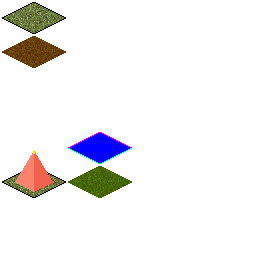
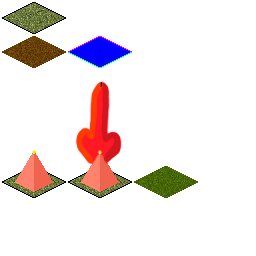
Added map regions

Changed region(s): [[0.25, 0.3125, 0.7812, 0.7812], [0.25, 0.125, 0.5312, 0.2812]]

diff --git a/core/src/game/infrpg/logic/map/Map.java b/core/src/game/infrpg/logic/map/Map.java
@@ -9,7 +9,10 @@ import com.badlogic.gdx.utils.Disposable;
 import game.infrpg.logic.RenderCallCounter;
 import static game.infrpg.MyGdxGame.logger;
 import game.infrpg.graphics.Camera;
-import game.infrpg.logic.Constants;
+import static game.infrpg.logic.Constants.CHUNK_SIZE;
+import static game.infrpg.logic.Constants.TILE_SIZE;
+import static game.infrpg.logic.Constants.REGION_SIZE;
+import static game.infrpg.logic.Constants.CHUNK_RENDER_DISTANCE;
 import java.io.BufferedInputStream;
 import java.io.BufferedOutputStream;
 import java.io.File;
@@ -22,6 +25,7 @@ import java.io.ObjectOutputStream;
 import java.io.OutputStream;
 import java.io.Serializable;
 import java.util.ArrayList;
+import java.util.Collection;
 import java.util.HashMap;
 import java.util.zip.GZIPInputStream;
 import java.util.zip.GZIPOutputStream;
@@ -40,19 +44,19 @@ public class Map implements Disposable, RenderCallCounter, Serializable {
 	private transient SpriteBatch batch;
 	private transient Vector2 isoCamPosBuffer;
 	
-	private final HashMap<String, MapChunk> globalChunks;
+	private final HashMap<Integer, Region> regions;
 	public final long seed;
 	
 	
 	public Map(long seed) {
 		this.seed = seed;
-		this.globalChunks = new HashMap<>(1000);
+		this.regions = new HashMap<>(32);
 		
 		setupTransientFields();
 		
 		// create test chunks
-		for (int i = -2; i < 3; i++) {
-			for (int j = -2; j < 3; j++) {
+		for (int i = -200; i <= 200; i++) {
+			for (int j = -200; j <= 200; j++) {
 				MapChunk chunk = new MapChunk(i, j);
 				setChunk(chunk);
 			}
@@ -80,17 +84,58 @@ public class Map implements Disposable, RenderCallCounter, Serializable {
 	
 	
 	public MapChunk getChunk(int x, int y) {
-		return globalChunks.get(key(x, y));
+		short regionX = (short)Math.floorDiv(x, REGION_SIZE);
+		short regionY = (short)Math.floorDiv(y, REGION_SIZE);
+		
+		Region region = regions.get(regionsMapKey(regionX, regionY));
+		if (region == null) return null;
+		
+		int localChunkX = x - regionX * REGION_SIZE;
+		int localChunkY = y - regionY * REGION_SIZE;
+		return region.getLocalChunk(localChunkX, localChunkY);
 	}
 	
 	
 	public void setChunk(MapChunk chunk) {
-		globalChunks.put(key(chunk.position.getX(), chunk.position.getY()), chunk);
+		// Find the region where this chunk should reside
+		short regionX = (short)Math.floorDiv(chunk.position.getX(), REGION_SIZE); // TODO: test with negative
+		short regionY = (short)Math.floorDiv(chunk.position.getY(), REGION_SIZE);
+		
+		// Get/create the region
+		Region region = regions.get(regionsMapKey(regionX, regionY));
+		if (region == null) region = createRegion(regionX, regionY);
+		
+		// Calc local position of the chunk within the region
+		int localChunkX = chunk.position.getX() - regionX * REGION_SIZE;
+		int localChunkY = chunk.position.getY() - regionY * REGION_SIZE;
+		region.setLocalChunk(chunk, localChunkX, localChunkY);
 	}
 	
 	
-	private String key(int x, int y) {
-		return String.valueOf(x) + ":" + String.valueOf(y);
+	/**
+	 * Calculate the key used for region mapping.
+	 * @param x
+	 * @param y
+	 * @return 
+	 */
+	private int regionsMapKey(short x, short y) {
+		int key = Short.toUnsignedInt(y) << 16;
+		key |= Short.toUnsignedInt(x);
+		return key;
+	}
+	
+	
+	/**
+	 * Creates a region at position (x, y), and returns a reference
+	 * to the newly created region.
+	 * @param x
+	 * @param y
+	 * @return 
+	 */
+	private Region createRegion(short x, short y) {
+		Region region = new Region(x, y);
+		regions.put(regionsMapKey(x, y), region);
+		return region;
 	}
 	
 	
@@ -104,25 +149,18 @@ public class Map implements Disposable, RenderCallCounter, Serializable {
 		
 		cam.getIsometricPosition(isoCamPosBuffer);
 		Point centerChunk = new Point(
-				Math.floorDiv((int)isoCamPosBuffer.x, Constants.CHUNK_SIZE * Constants.TILE_SIZE),
-				Math.floorDiv((int)isoCamPosBuffer.y, Constants.CHUNK_SIZE * Constants.TILE_SIZE));
+				Math.floorDiv((int)isoCamPosBuffer.x, CHUNK_SIZE * TILE_SIZE),
+				Math.floorDiv((int)isoCamPosBuffer.y, CHUNK_SIZE * TILE_SIZE));
 		
 		batch.setProjectionMatrix(cam.combined);
 		batch.begin();
 		
-		int RENDER_DIST = 1;
-		for (int i = centerChunk.getX() - RENDER_DIST; i <= centerChunk.getX() + RENDER_DIST; i++) {
-			for (int j = centerChunk.getY() - RENDER_DIST; j <= centerChunk.getY() + RENDER_DIST; j++) {
+		for (int i = centerChunk.getX() - CHUNK_RENDER_DISTANCE; i <= centerChunk.getX() + CHUNK_RENDER_DISTANCE; i++) {
+			for (int j = centerChunk.getY() - CHUNK_RENDER_DISTANCE; j <= centerChunk.getY() + CHUNK_RENDER_DISTANCE; j++) {
 				MapChunk chunk = getChunk(i, j);
 				if (chunk != null) chunk.render(mapTextureRegions, batch);
 			}
 		}
-		
-		// Render all chunks
-//		int numChunks = renderChunks.size();
-//		for (int i = 0; i < numChunks; i++) {
-//			renderChunks.get(i).render(mapTextureRegions, batch);
-//		}
 		
 		batch.end();
 	}
@@ -180,4 +218,6 @@ public class Map implements Disposable, RenderCallCounter, Serializable {
 		bfis.close();
 		return map;
 	}
+
+	
 }

diff --git a/core/src/game/infrpg/logic/map/MapChunk.java b/core/src/game/infrpg/logic/map/MapChunk.java
@@ -11,6 +11,7 @@ import java.util.List;
 import org.lwjgl.util.Point;
 import static game.infrpg.logic.Constants.CHUNK_SIZE;
 import static game.infrpg.logic.Constants.TILE_SIZE;
+import java.util.Random;
 
 /**
  *
@@ -18,7 +19,7 @@ import static game.infrpg.logic.Constants.TILE_SIZE;
  */
 public class MapChunk implements Serializable {
 	
-	/** Chunk position within the region. */
+	/** Global chunk position. */
 	public final Point position;
 	
 	private final Vector2 screenPos;
@@ -42,9 +43,10 @@ public class MapChunk implements Serializable {
 		this.chunkTileData = new byte[CHUNK_SIZE][CHUNK_SIZE];
 		this.coordTmp = new Vector2();
 		
+		Random rnd = new Random();
 		for (int i = 0; i < chunkTileData.length; i++) {
 			for (int j = 0; j < chunkTileData[i].length; j++) {
-				chunkTileData[i][j] = 4;
+				chunkTileData[i][j] = 4;//(byte)rnd.nextInt(6);
 			}
 		}
 	}
@@ -62,9 +64,16 @@ public class MapChunk implements Serializable {
 	}
 	
 	
+	
 //	private void readObject(ObjectInputStream inputStream) throws IOException, ClassNotFoundException {
 //		inputStream.defaultReadObject();
 //	} 
+
+	
+	@Override
+	public String toString() {
+		return String.format("Map chunk [%d, %d]", position.getX(), position.getY());
+	}
 	
 	
 }

diff --git a/core/src/game/infrpg/logic/map/Region.java b/core/src/game/infrpg/logic/map/Region.java
@@ -1,7 +1,6 @@
 package game.infrpg.logic.map;
 
 import static game.infrpg.logic.Constants.REGION_SIZE;
-import org.lwjgl.util.Point;
 
 /**
  *
@@ -9,26 +8,37 @@ import org.lwjgl.util.Point;
  */
 public class Region {
 	
-	/** Region position on the map. */
-	public final Point position;
+	/** Region x position on the map. */
+	public final short x;
+	/** Region y position on the map. */
+	public final short y;
 	
 	/** MapChunks in this region. */
 	private final MapChunk[][] chunks;
 	
 	
 	public Region(int x, int y) {
-		this.position = new Point(x, y);
+		this.x = (short)x;
+		this.y = (short)y;
 		this.chunks = new MapChunk[REGION_SIZE][REGION_SIZE];
 	}
 	
 	
-	public MapChunk getLocalChunk(int x, int y) {
-		return chunks[x][y];
+	public MapChunk getLocalChunk(int localX, int localY) {
+		return chunks[localX][localY];
 	}
 	
 	
-	public void setLocalChunk(MapChunk chunk, int x, int y) {
-		chunks[x][y] = chunk;
+	public void setLocalChunk(MapChunk chunk, int localX, int localY) {
+		chunks[localX][localY] = chunk;
 	}
+	
+
+	@Override
+	public String toString() {
+		return String.format("Map region [%d, %d]", x, y);
+	}
+	
+	
 	
 }

diff --git a/core/src/game/infrpg/screens/InGameScreen.java b/core/src/game/infrpg/screens/InGameScreen.java
@@ -51,7 +51,12 @@ public class InGameScreen extends AbstractScreen {
 		batch = new SpriteBatch();
 		atlas = new TextureAtlas(Gdx.files.internal("packed/pack.atlas"));
 		
-		player = new SpearmanSprite(atlas, 18, 0.5f);
+		player = new SpearmanSprite(atlas, Constants.DEBUG_MOVEMENT_SPEED / 4.3f, 0.5f);
+		Vector2 v = new Vector2(256f, 256f);
+		Util.iso2cart(v);
+		player.x = v.x;
+		player.y = v.y;
+		
 		crossTex = atlas.findRegion("cross");
 		
 		Gdx.input.setInputProcessor(new InputProcessor() {
@@ -121,7 +126,7 @@ public class InGameScreen extends AbstractScreen {
 		batch.setProjectionMatrix(cam.combined);
 		batch.begin();
 		player.render(batch, gameElapsedTime);
-		batch.draw(crossTex, cam.position.x + Constants.TILE_SIZE, cam.position.y);
+		//batch.draw(crossTex, cam.position.x + Constants.TILE_SIZE, cam.position.y);
 		batch.end();
 		
 		renderCalls += map.getRenderCalls();

diff --git a/core/src/game/infrpg/logic/Constants.java b/core/src/game/infrpg/logic/Constants.java
@@ -6,12 +6,13 @@ package game.infrpg.logic;
  */
 public class Constants {
 	
-	public static final float DEBUG_MOVEMENT_SPEED = 300;
+	public static final float DEBUG_MOVEMENT_SPEED = 180;
 	public static final boolean ENABLE_ZOOM = true;
 	
 	public static final int REGION_SIZE = 16;
 	public static final int CHUNK_SIZE = 16;
 	public static final int TILE_SIZE = 32; // height of an isometric tile
+	public static final int CHUNK_RENDER_DISTANCE = 3;
 	
 	public static int SCREEN_WIDTH;
 	public static int SCREEN_HEIGHT;
